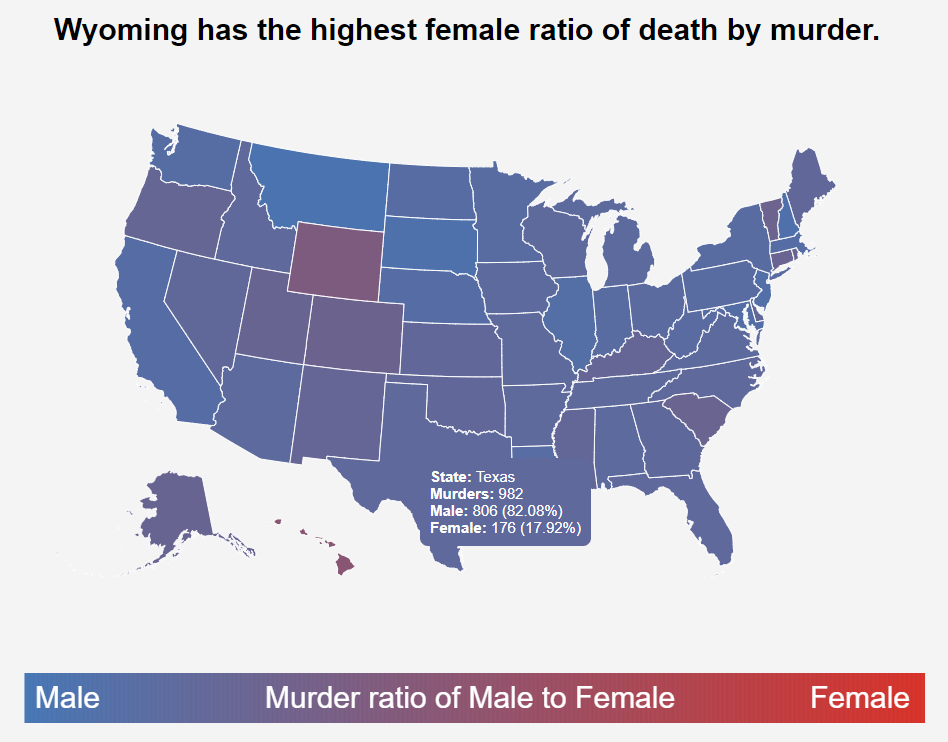
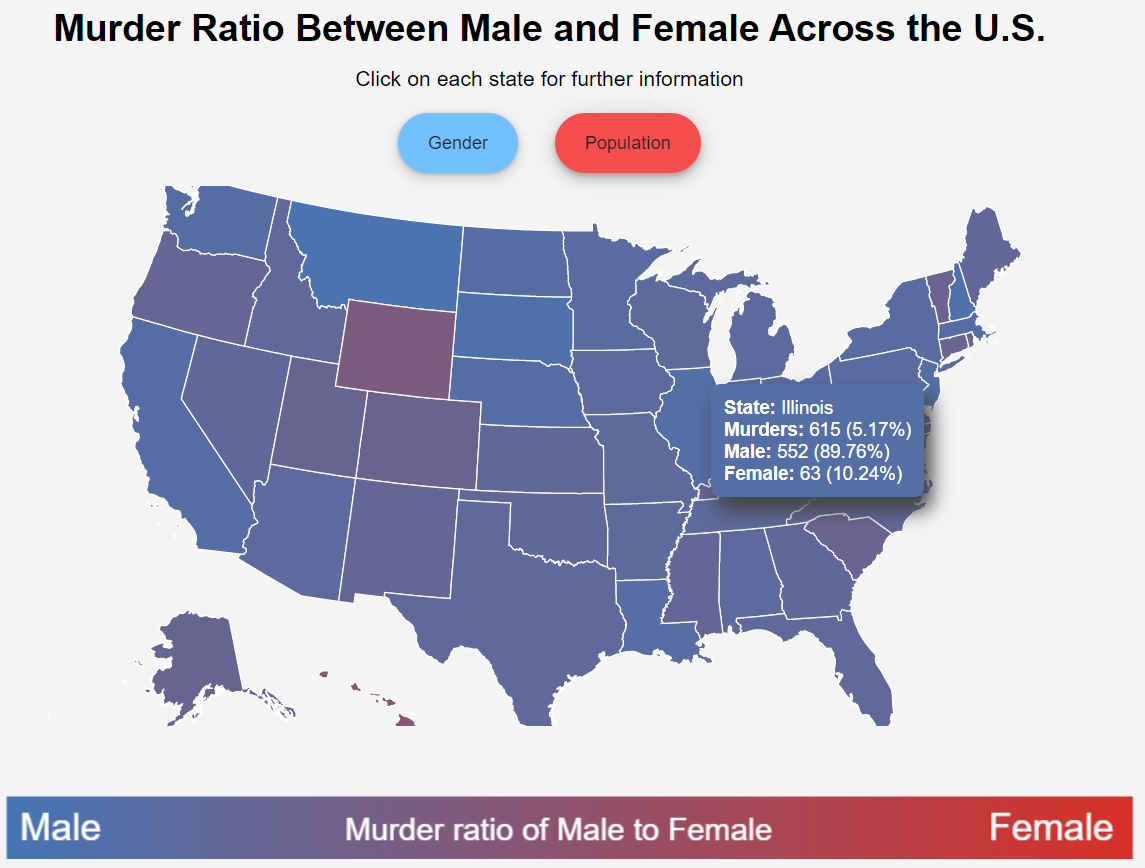
Did final write up for the project for second viz

diff --git a/about_this_project.html b/about_this_project.html
@@ -61,7 +61,7 @@
         When the user enters this website, they are not bombarded with information and this is due to the
         the minimalist approach that I have taken with this visualization.
         The information is only served when it's needed and asked by the user by hovering over the state.
-        The map shows data regarding the ratio of murder death between males and females.
+        The first map shows data regarding the ratio of murder death between males and females.
         Intuitively, blue is associated with males and red is with the female.
         This design is further enhanced by creating the correct male-to-female color ratio under the map and
         putting labels in Arial font with white text to make it easier to read.
@@ -84,7 +84,30 @@
         number to see if there are lots of male murders or if it's an outlier when there are fewer murders recorded.
         I am choosing to color the tooltip box and the shadow to further give another indirect dimension of information about the percentage of murders in that city for that state.
         This color would subconsciously let the users know about the significance of that place when it's redder than the white color for the tooltip box.
+    </p>
 
+    <img id="white_hat_viz_pic_3"
+         src="asset/white_hat_viz_pic_3.png"
+         alt="Picture of a white hat visualization">
+    <p>
+        Next, we will take a look at population information, which can be accessed by clicking one of the two buttons on the top of the visualization.
+        Here the population information is just visualized to show where most murders happen, but it is normalized for how many people live in that state.
+        This is to prevent misleading the user by showing the data where only where most people leave and where more murders happen.
+        Furthermore, when you hover over each of the states, you can understand the information such as numbers about how it compares against other states.
+        Here you can see what percentage of total murders happen in a state in comparison to the United States.
+        You are also provided with the ratio of one murder to people living in the state.
+        Another visual indirect information to give the ratio information is provided with the color of the tooltip which changes to a darker red as the ratio gets higher.
+        The font color adapts to the tooltip to make the information always readable no matter what the background color of the tooltip is.
+    </p>
+
+    <img id="white_hat_viz_pic_4"
+         src="asset/white_hat_viz_pic_4.png"
+         alt="Picture of a white hat visualization">
+    <p>
+        Once the user clicks on the state, they can explore the data about the murders at the state level.
+        The color of the bubbles changes to blue to stand out against the red background which still represents the murder density of the state.
+        The bigger the radius of the circle is the bluer the tooltip would become giving the user more indirect information about where the most murders happen within the state.
+        This is further aided by giving a percentage of the murders that happen in the city.
     </p>
 </div>
 
@@ -105,6 +128,18 @@
     <p>
         <a href="https://bl.ocks.org/d3noob">
             bl.ocks.org Website with D3 examples
+        </a>
+    </p>
+
+    <p>
+        <a href="https://www.linkedin.com/learning/learning-data-visualization-with-d3-js/welcome?u=43607124">
+            LinkedIn Learning tutorial for D3.js
+        </a>
+    </p>
+
+    <p>
+        <a href="https://www.w3schools.com/">
+           W3Schools
         </a>
     </p>
 </div>

diff --git a/js/white_hat_viz_population.js b/js/white_hat_viz_population.js
@@ -53,26 +53,6 @@
         .domain([0, 0.000010113090032833224]);
 
     d3.json("data/state_gender_murder.geojson", function (geodata) {
-        let maxPop = 0;
-        let maxPopState = "";
-        let maxPopMurders = 0;
-        let totalMurders = 0
-
-        for (let i = 0; i < geodata.features.length; i++) {
-            totalMurders += geodata.features[i].properties.murders;
-
-            if (geodata.features[i].properties.population > maxPop) {
-                maxPop = geodata.features[i].properties.population;
-                maxPopState = geodata.features[i].properties.NAME;
-                maxPopMurders = geodata.features[i].properties.murders;
-            }
-
-            console.log(geodata.features[i].properties.population);
-        }
-
-        console.log("State:" + maxPopState + " Population: " + maxPop + " Murders: " + maxPopMurders + " Ratio: " + (maxPopMurders/maxPop));
-        console.log("Total murders in US: " + totalMurders);
-
         //Create a path for each map feature in the data
         features
             .selectAll("path")
@@ -222,11 +202,14 @@
 
     ctx.font = "30px arial";
     ctx.fillStyle = "#414141";
-    ctx.fillText("Male", linearScale(-1) + 10, 85);
-    ctx.fillText("Female", linearScale(1) - 115, 85);
+    ctx.fillText("Lower", linearScale(-1) + 10, 85);
 
-    ctx.font = "15px";
-    ctx.fillText("Murder ratio of Male to Female", linearScale(0) - 210, 85);
+    ctx.fillStyle = "#f3f3f3";
+    ctx.fillText("Higher", linearScale(1) - 115, 85);
+
+    ctx.fillStyle = "#414141";
+    ctx.font = "20px arial";
+    ctx.fillText("Ratio between people murdered per state population", linearScale(0) - 240, 83);
 
 
     //Position of the tooltip relative to the cursor
@@ -294,12 +277,6 @@
         const color_sequential = d3
             .scaleSequential(d3.interpolate("white", '#496dbb'))
             .domain([0, 1]);
-
-        // let color_sequential_num = d3
-        //     .scaleSequential(d3.interpolate(0, 1))
-        //     .domain([0, d.murdersPerState]);
-        //
-        // console.log(color_sequential_num(males + females));
 
         tooltipForCity
             .style("display", "block")

diff --git a/css/about_this_page.css b/css/about_this_page.css
@@ -66,7 +66,7 @@ header {
 }
 
 #black_hat_viz_pic {
-    max-width: 40%;
+    max-width: 30%;
     margin-right: 50px;
     margin-bottom: 20px;
     float: left;
@@ -84,6 +84,24 @@ header {
 }
 
 #white_hat_viz_pic_2 {
+    max-width: 25%;
+    margin-right: 50px;
+    margin-bottom: 20px;
+    float: left;
+    border: 1px solid #fff;
+    box-shadow:20px 20px 40px 5px #656565;
+}
+
+#white_hat_viz_pic_3 {
+    max-width: 30%;
+    margin-left: 50px;
+    margin-bottom: 20px;
+    float: right;
+    border: 1px solid #fff;
+    box-shadow:-20px 20px 40px 5px #656565;
+}
+
+#white_hat_viz_pic_4 {
     max-width: 25%;
     margin-right: 50px;
     margin-bottom: 20px;

diff --git a/js/white_hat_viz_gender.js b/js/white_hat_viz_gender.js
@@ -202,8 +202,8 @@
     ctx.fillText("Male", linearScale(-1) + 10, 85);
     ctx.fillText("Female", linearScale(1) - 115, 85);
 
-    ctx.font = "15px";
-    ctx.fillText("Murder ratio of Male to Female", linearScale(0) - 210, 85);
+    ctx.font = "25px arial";
+    ctx.fillText("Murder ratio of Male to Female", linearScale(0) - 180, 85);
 
 
     //Position of the tooltip relative to the cursor

diff --git a/js/white_hat_main.js b/js/white_hat_main.js
@@ -5,7 +5,7 @@ const subTitle = document.getElementById("sub_title");
 
 function showInitialViz() {
     let script = document.createElement('script');
-    script.src = "js/white_hat_viz_population.js";
+    script.src = "js/white_hat_viz_gender.js";
 
     document.head.appendChild(script);
 }

diff --git a/js/black_hat_viz.js b/js/black_hat_viz.js
@@ -53,8 +53,6 @@
                 }
             }
 
-            console.log(max_people_murdered)
-
             svg
                 .selectAll("circle")
                 .data(csv).enter()
